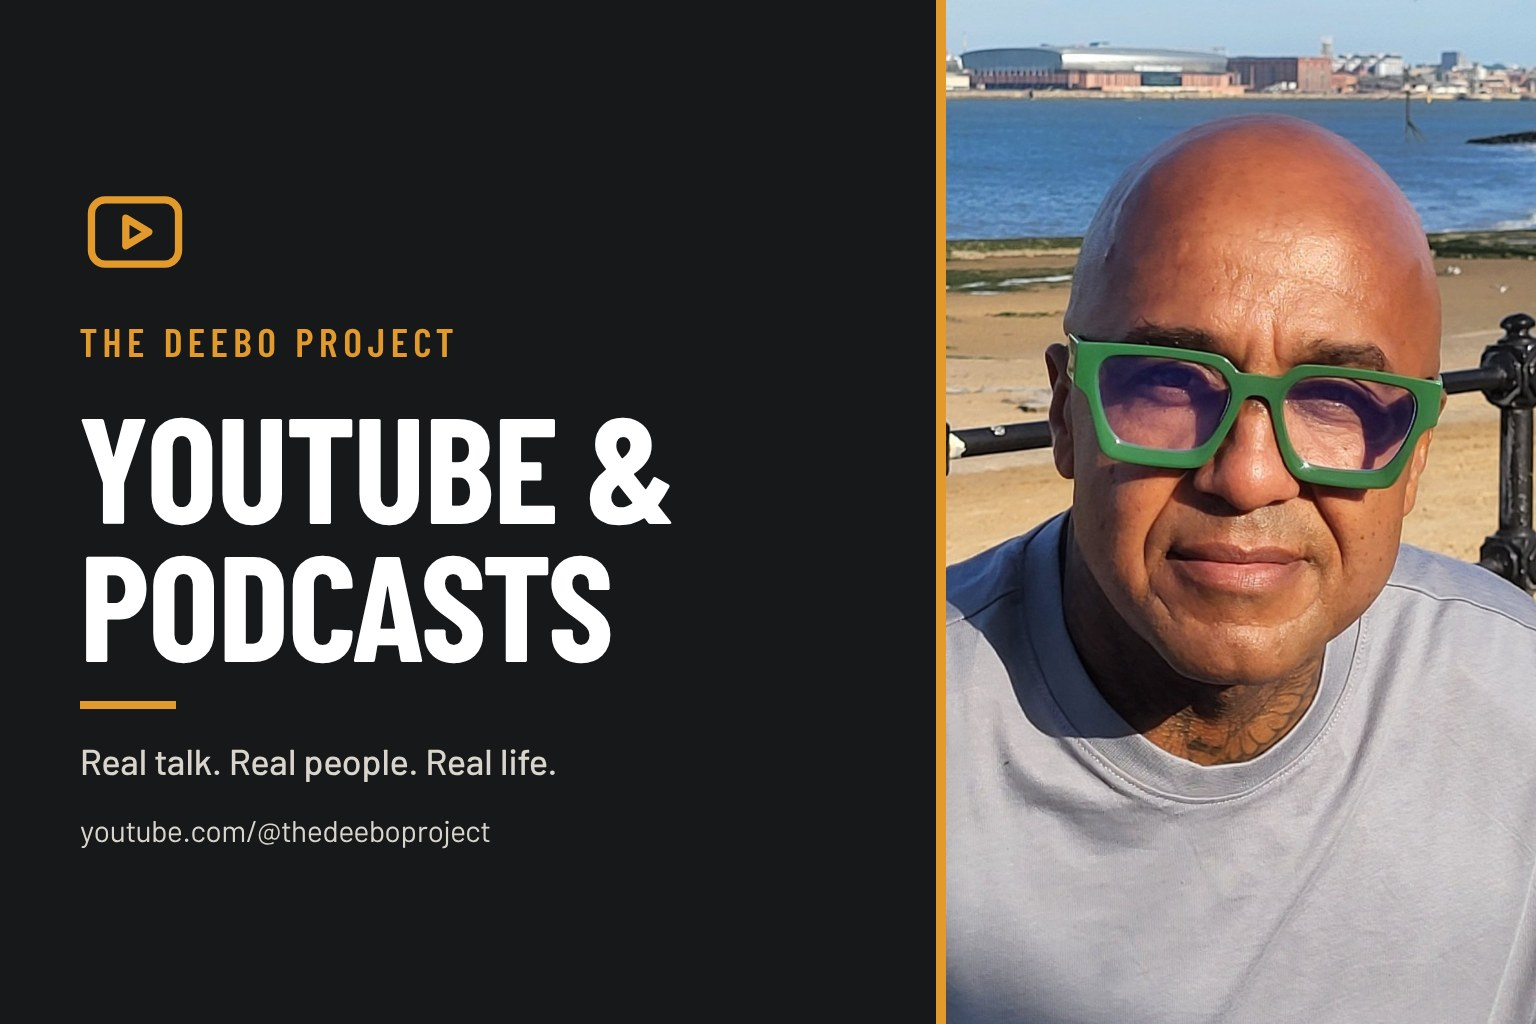
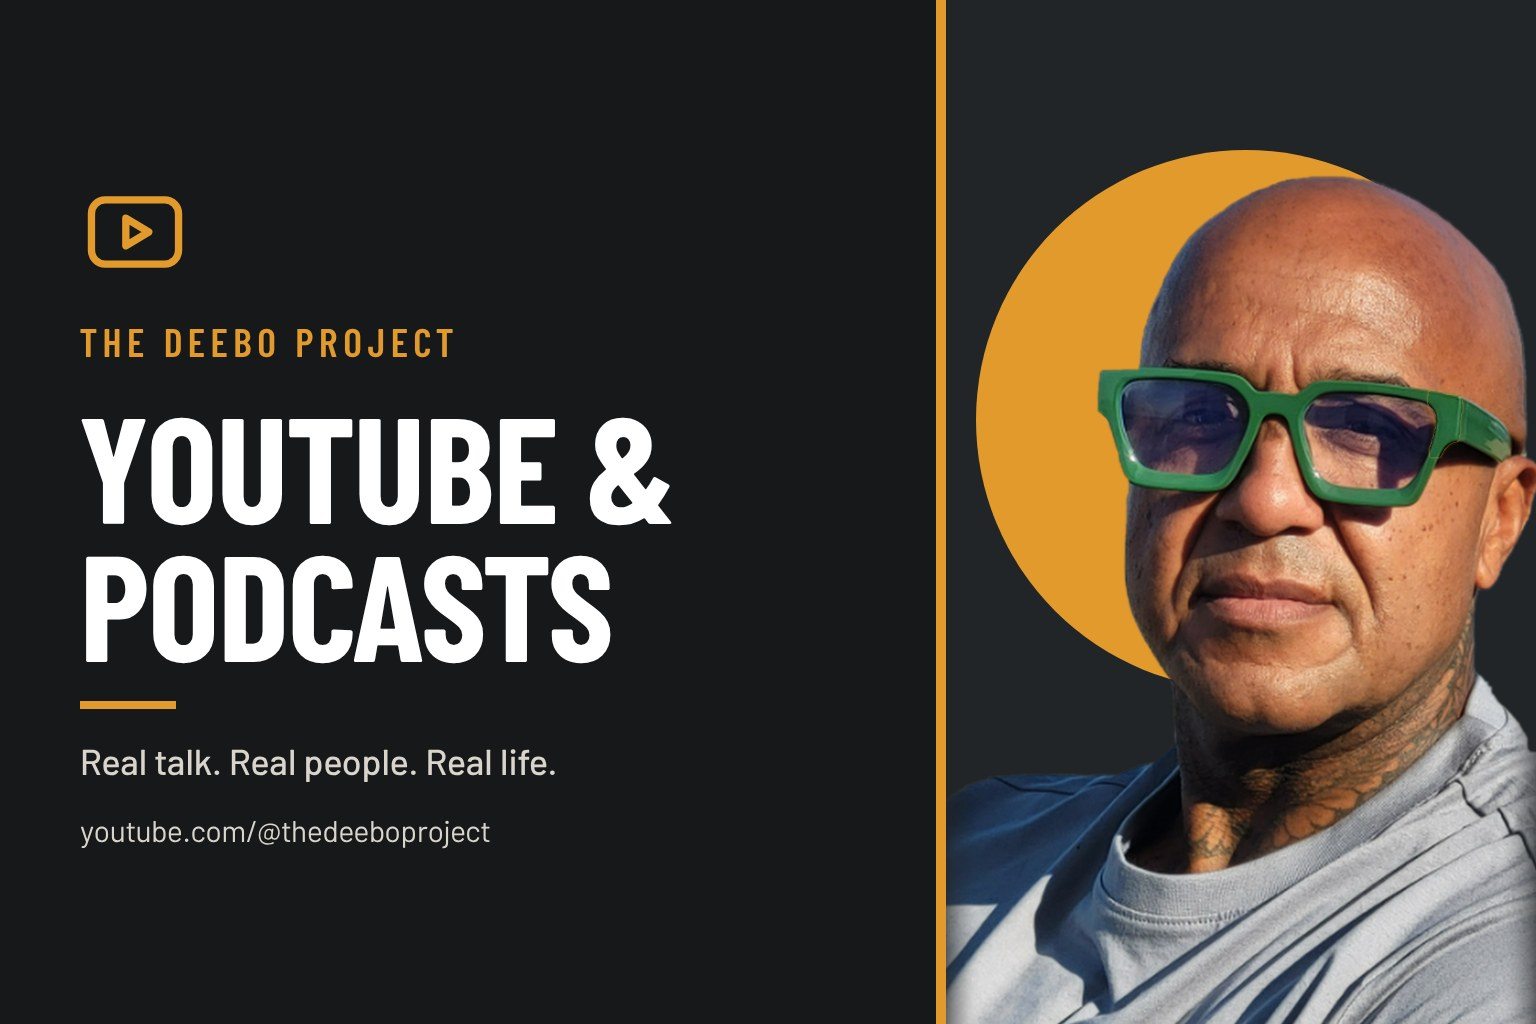
Use a second real photo of Elroy for the YouTube images, on a plain graphic background
Claude-Session: https://claude.ai/code/session_014XBX35JU8cmv1FCVg4uKPd

diff --git a/index.html b/index.html
@@ -1163,7 +1163,7 @@ More →
      ================================================= -->
 
 <article class="business-panel"
-         style="--panel-image: url('deebo-youtube-panel.jpg');">
+         style="--panel-image: url('deebo-youtube-panel.jpg?v=2');">
 
 
 <div class="panel-content">
@@ -1825,7 +1825,7 @@ Get in Touch
 
 
 <img class="business-page-image"
-     src="YouTube-Deebo-Project.jpeg"
+     src="YouTube-Deebo-Project.jpeg?v=2"
      alt="YouTube and Podcasts">
 
 
